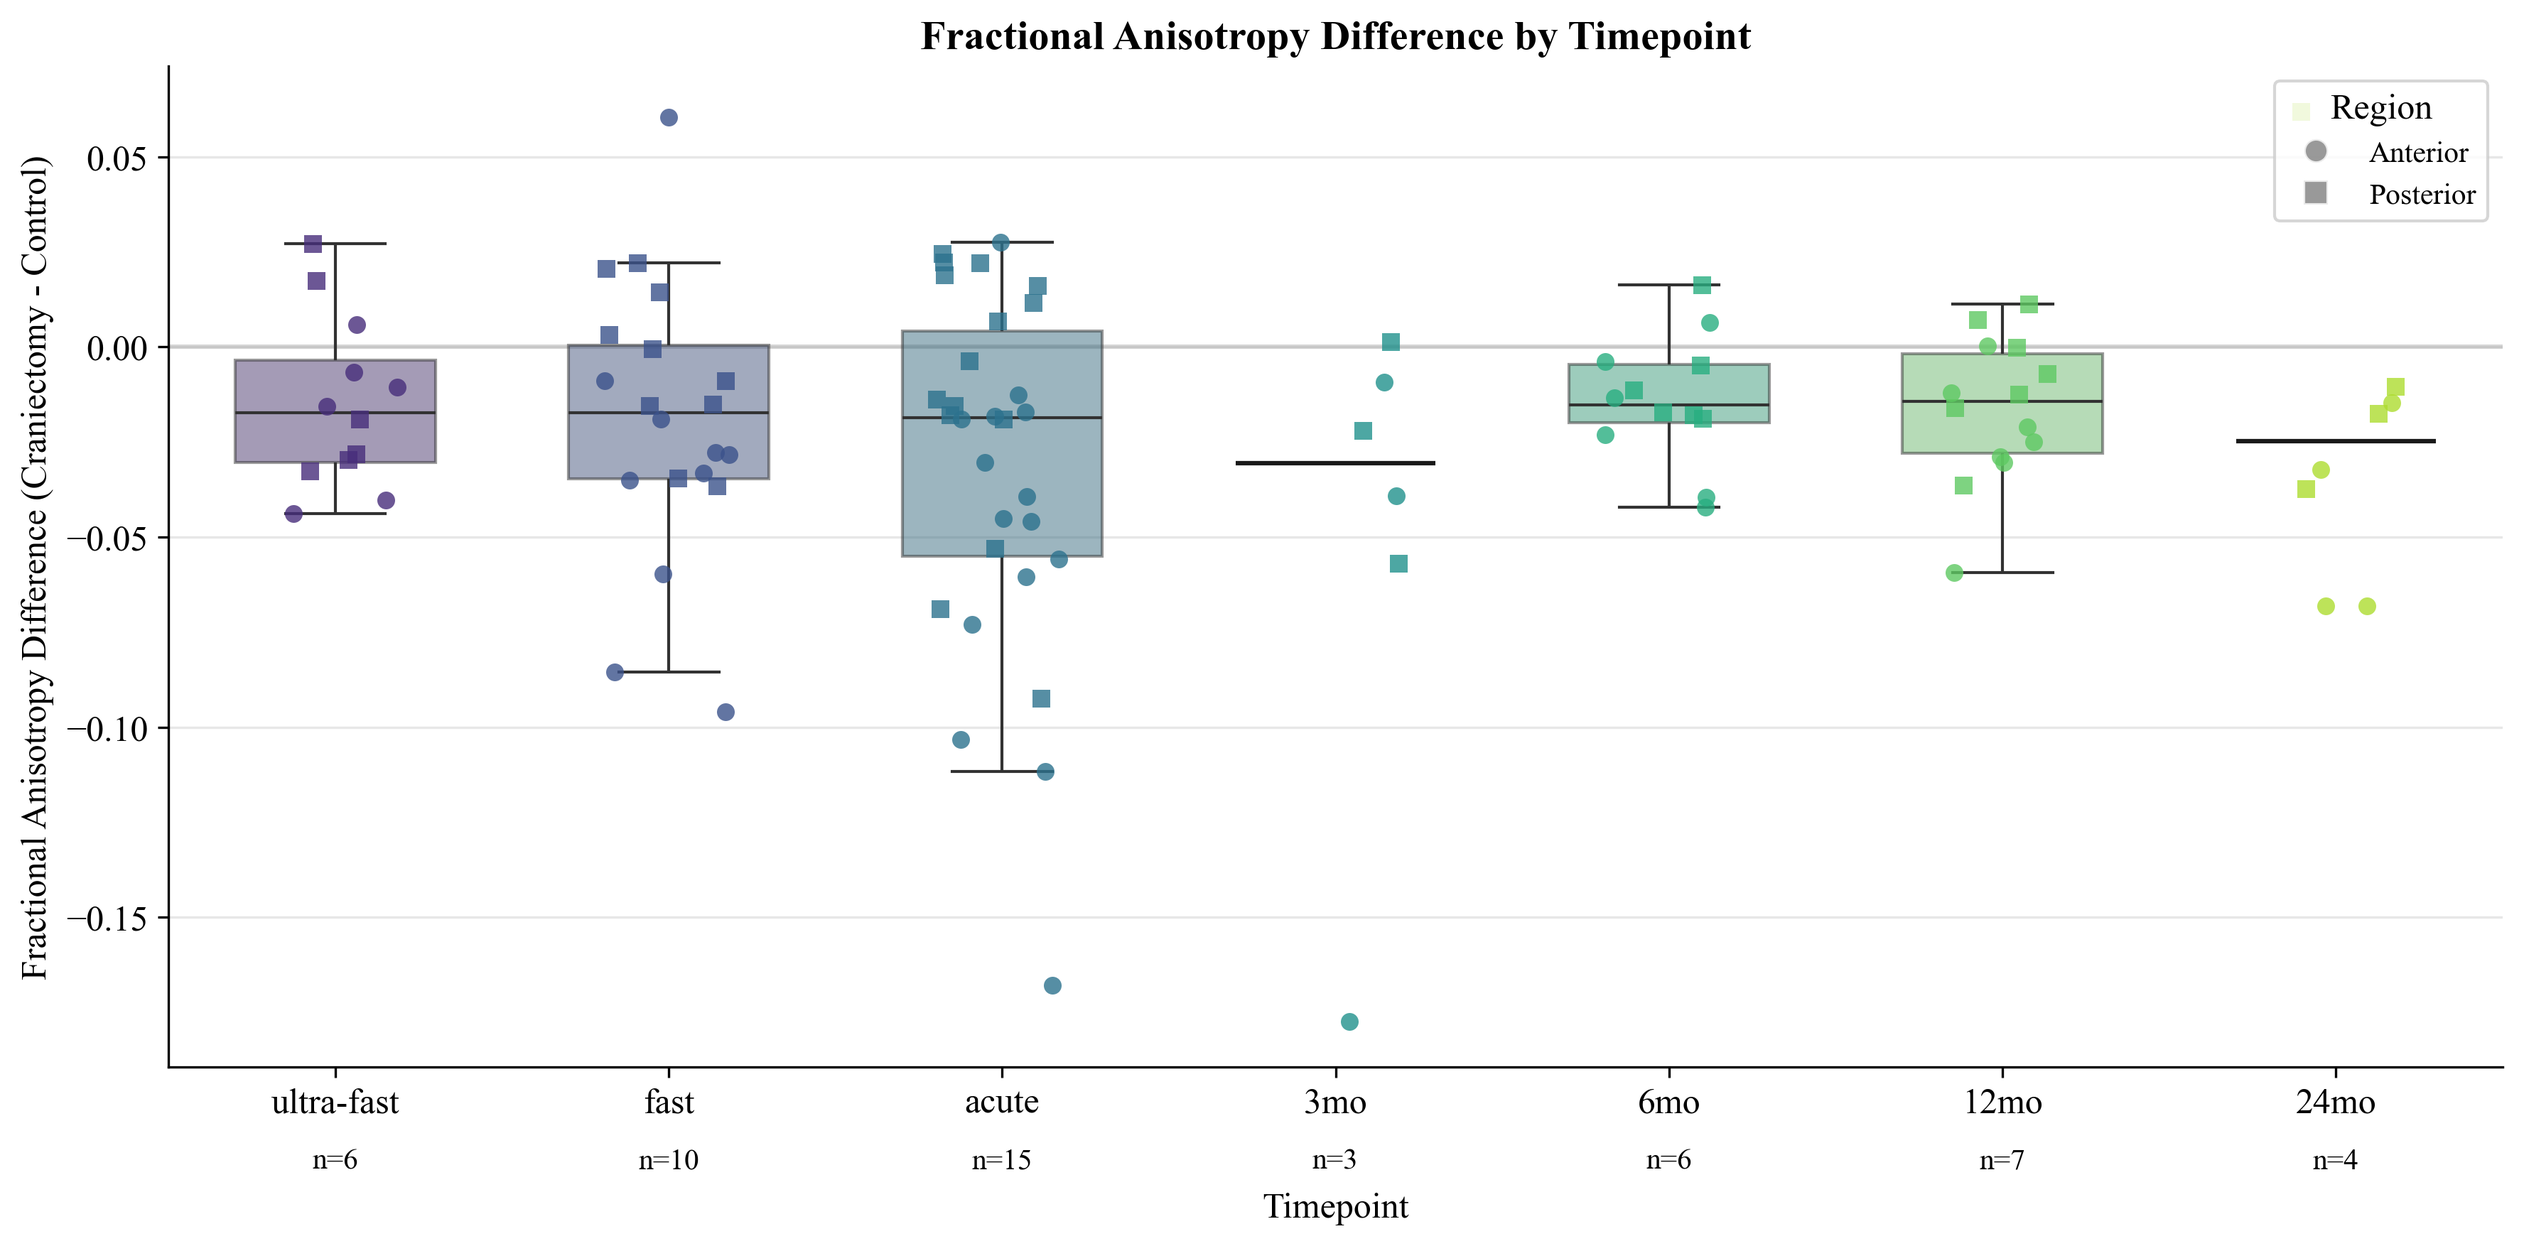
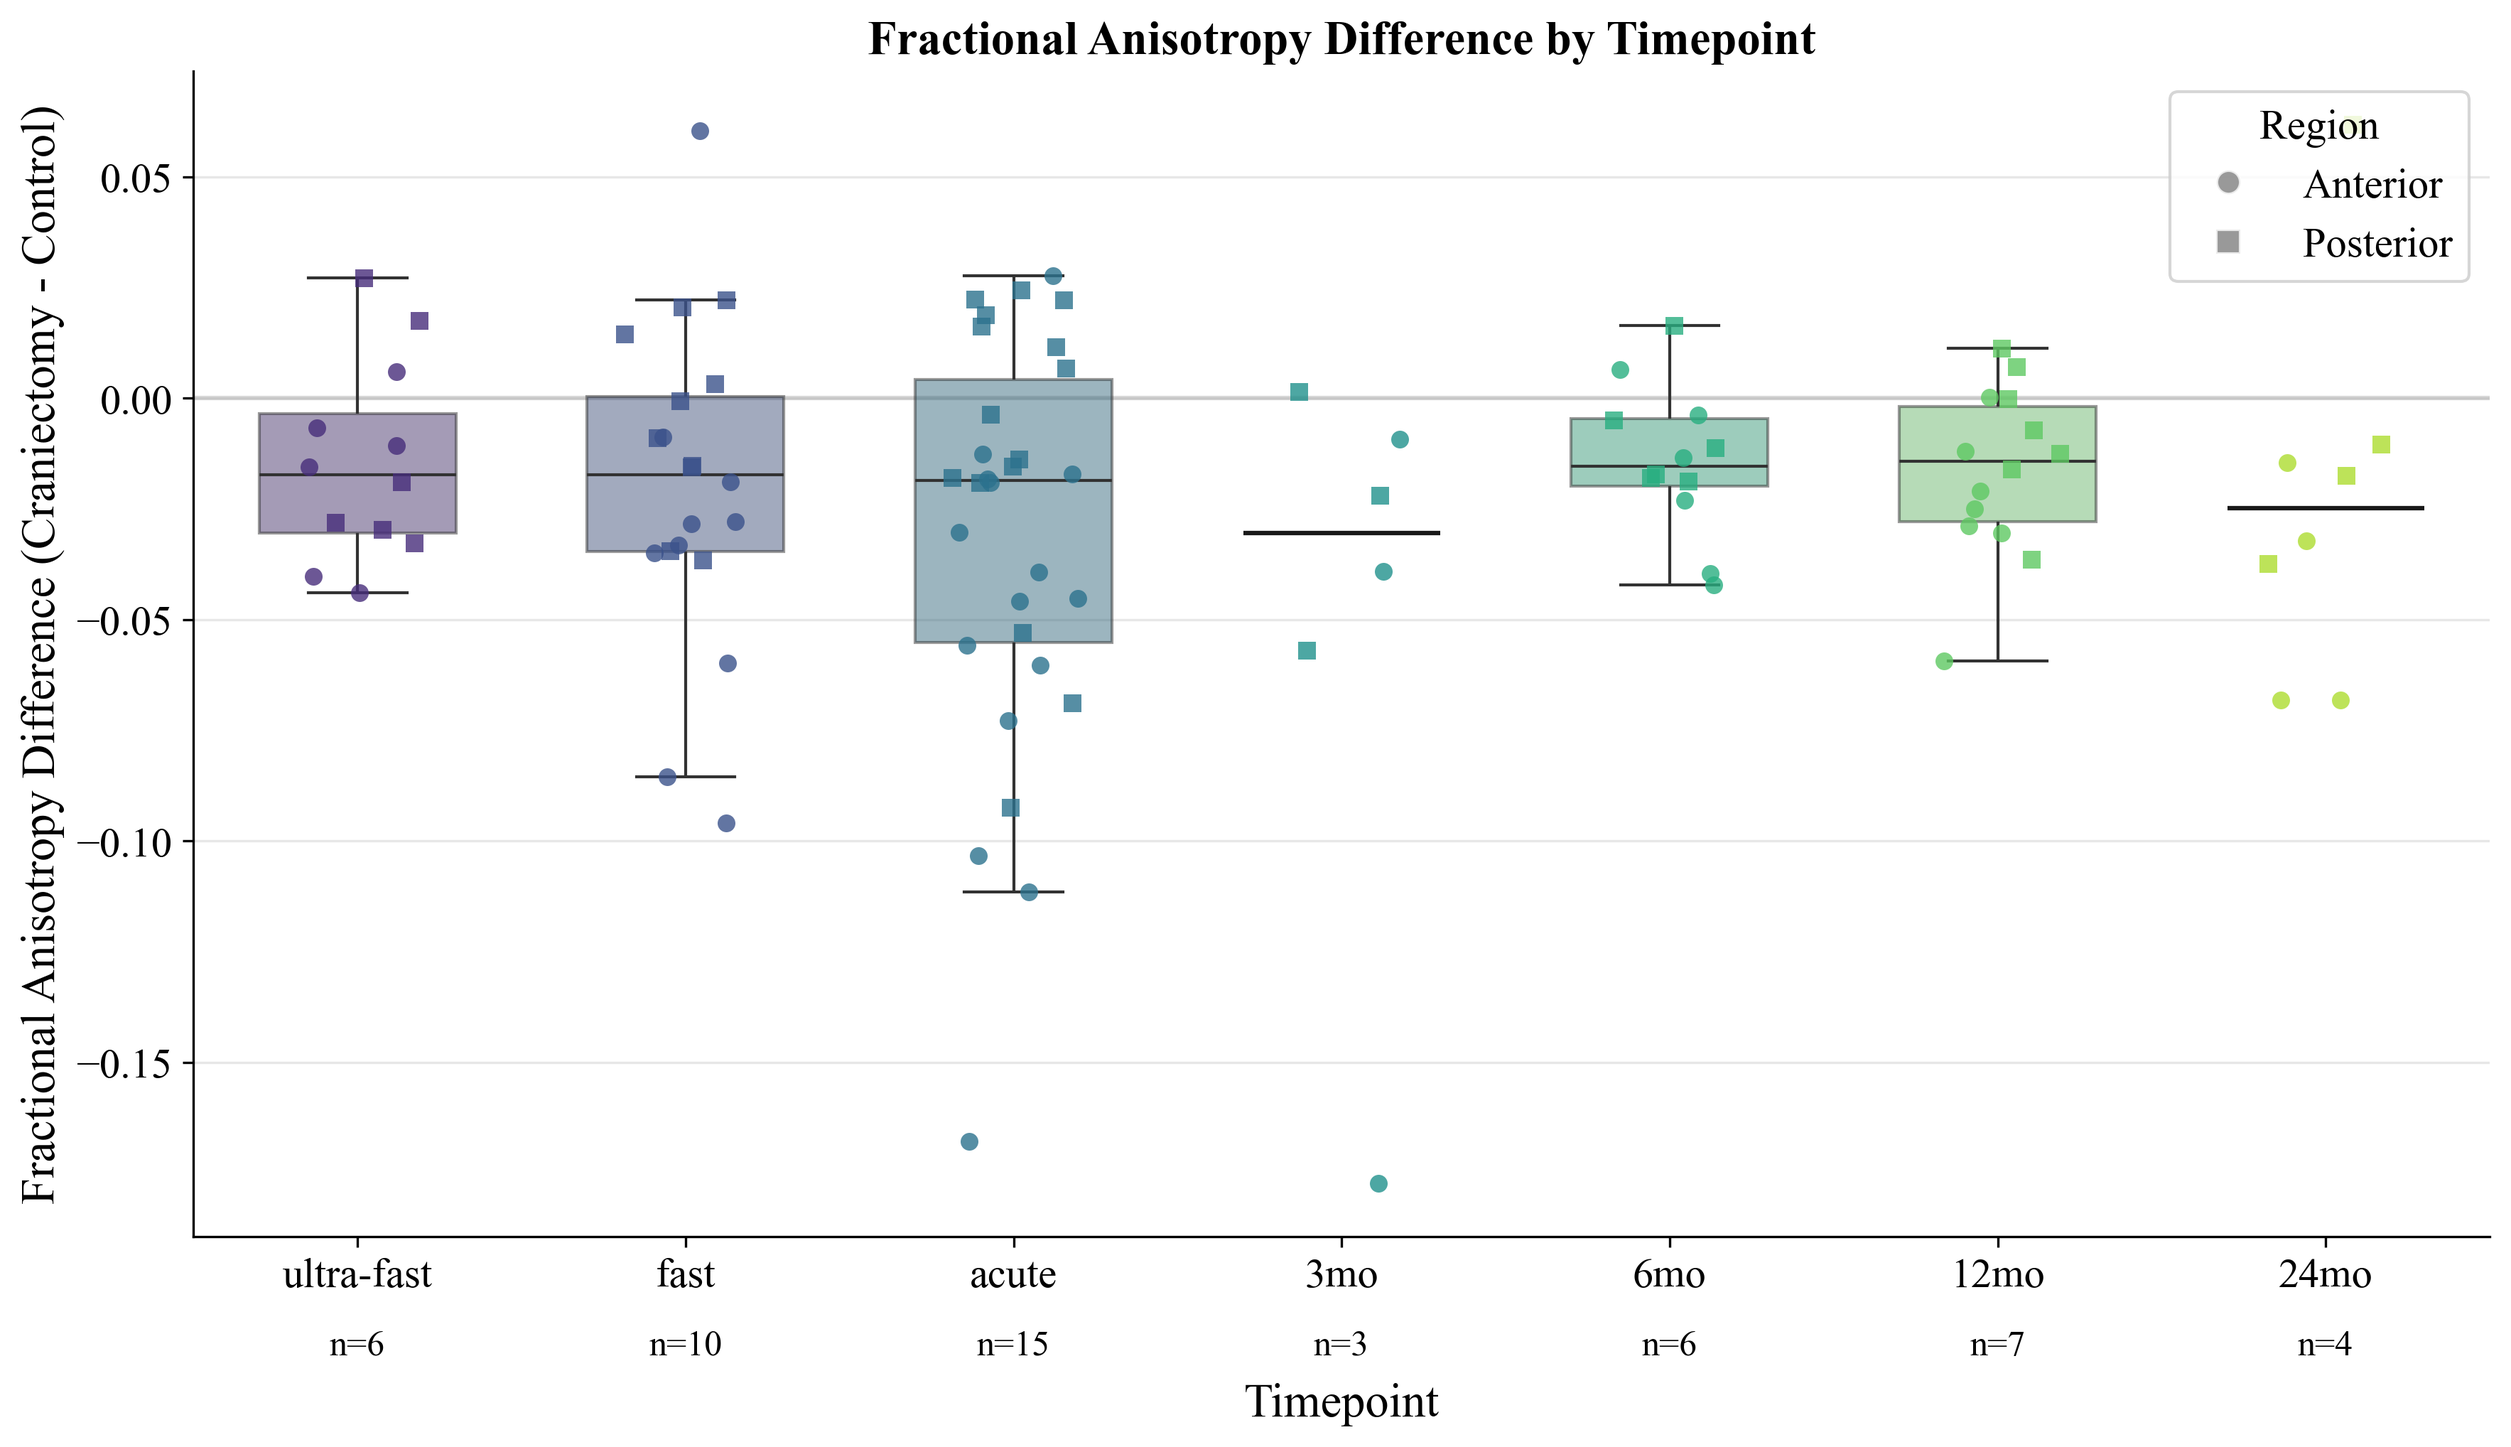
make font on figs bigger

diff --git a/DTI_Processing_Scripts/dti_results_plotting_main.py b/DTI_Processing_Scripts/dti_results_plotting_main.py
@@ -1840,7 +1840,16 @@ def create_timepoint_boxplot_recategorised_dti(df, parameter, timepoints=['ultra
 
     set_publication_style()  # Assuming this function exists in your environment
 
-    fig, ax = plt.subplots(figsize=(12, 6))
+    plt.rcParams.update({
+        'font.size': 14,           # Base font size
+        # 'axes.titlesize': 18,      # Title font size
+        'axes.labelsize': 16,      # Axis label font size
+        'xtick.labelsize': 14,     # X-axis tick label size
+        'ytick.labelsize': 14,     # Y-axis tick label size
+        'legend.fontsize': 14      # Legend font size
+    })
+
+    fig, ax = plt.subplots(figsize=(12, 7))
 
     palette = sns.color_palette("viridis", len(timepoints))
 
@@ -1968,9 +1977,9 @@ def create_timepoint_boxplot_recategorised_dti(df, parameter, timepoints=['ultra
         unit = " [mm²/s]"
     
     # Set labels and title
-    ax.set_xlabel('Timepoint', fontsize=12)
-    ax.set_ylabel(f'{param_name} Difference (Craniectomy - Control){unit}', fontsize=12)
-    ax.set_title(f'{param_name} Difference by Timepoint', fontsize=14, fontweight='bold')
+    ax.set_xlabel('Timepoint')
+    ax.set_ylabel(f'{param_name} Difference (Craniectomy - Control){unit}')
+    ax.set_title(f'{param_name} Difference by Timepoint', fontweight='bold')
     
     # Add grid for y-axis only
     ax.grid(True, axis='y', linestyle='-', alpha=0.3)
@@ -1990,10 +1999,10 @@ def create_timepoint_boxplot_recategorised_dti(df, parameter, timepoints=['ultra
         if count > 0:
             if parameter == 'fa':
                 ax.text(i, ax.get_ylim()[0] * 1.15, f"n={count}",
-                    ha='center', va='bottom', fontsize=10)
+                    ha='center', va='bottom', fontsize=12)
             else:
                 ax.text(i, ax.get_ylim()[0] * 1.35, f"n={count}",
-                    ha='center', va='bottom', fontsize=10)
+                    ha='center', va='bottom', fontsize=12)
     
     ax.xaxis.set_label_coords(0.5, -0.125)  # Move x-axis label down
     plt.tight_layout()
@@ -3627,9 +3636,11 @@ if __name__ == '__main__':
     # )
     # sys.exit()
 
-    # create_timepoint_boxplot_recategorised_dti(df=wm_data_roi_567, parameter='fa', timepoints=['ultra-fast', 'fast', 'acute', '3mo', '6mo', '12mo', '24mo'])
-    # create_timepoint_boxplot_recategorised_dti(df=wm_data_roi_567, parameter='md', timepoints=['ultra-fast', 'fast', 'acute', '3mo', '6mo', '12mo', '24mo'])
-    
+    # create_timepoint_boxplot_recategorised_dti(df, parameter, timepoints=['ultra-fast', 'fast', 'acute', '3mo', '6mo', '12mo', '24mo'])
+
+    create_timepoint_boxplot_recategorised_dti(df=wm_data_roi_567, parameter='fa', timepoints=['ultra-fast', 'fast', 'acute', '3mo', '6mo', '12mo', '24mo'])
+    create_timepoint_boxplot_recategorised_dti(df=wm_data_roi_567, parameter='md', timepoints=['ultra-fast', 'fast', 'acute', '3mo', '6mo', '12mo', '24mo'])
+    sys.exit()
     
     # create_timepoint_boxplot_recategorised_dti_single_region(df=wm_data_roi_567, parameter='fa', region='anterior', timepoints=['ultra-fast', 'fast', 'acute', '3mo', '6mo', '12mo', '24mo'])
     # create_timepoint_boxplot_recategorised_dti_single_region(df=wm_data_roi_567, parameter='md', region='anterior', timepoints=['ultra-fast', 'fast', 'acute', '3mo', '6mo', '12mo', '24mo'])
@@ -3649,14 +3660,14 @@ if __name__ == '__main__':
     # print(wm_data_roi_567_combi)
 
     # Do new data availability matrix for combi data
-    matrix_combi = data_availability_matrix(
-        data=wm_data_roi_567_combi, 
-        timepoints=['ultra-fast', 'fast', 'acute', '3-6mo', '12-24mo'],
-        diff_column='fa_anterior_diff',  # or any other diff column
-        filename='fa_diff_data_availability_combi.png'
-    )
+    # matrix_combi = data_availability_matrix(
+    #     data=wm_data_roi_567_combi, 
+    #     timepoints=['ultra-fast', 'fast', 'acute', '3-6mo', '12-24mo'],
+    #     diff_column='fa_anterior_diff',  # or any other diff column
+    #     filename='fa_diff_data_availability_combi.png'
+    # )
 
-    sys.exit()
+    # sys.exit()
 
     #####################################################
     # LINEAR MIXED EFFECTS MODEL WITH COMBI DATA
